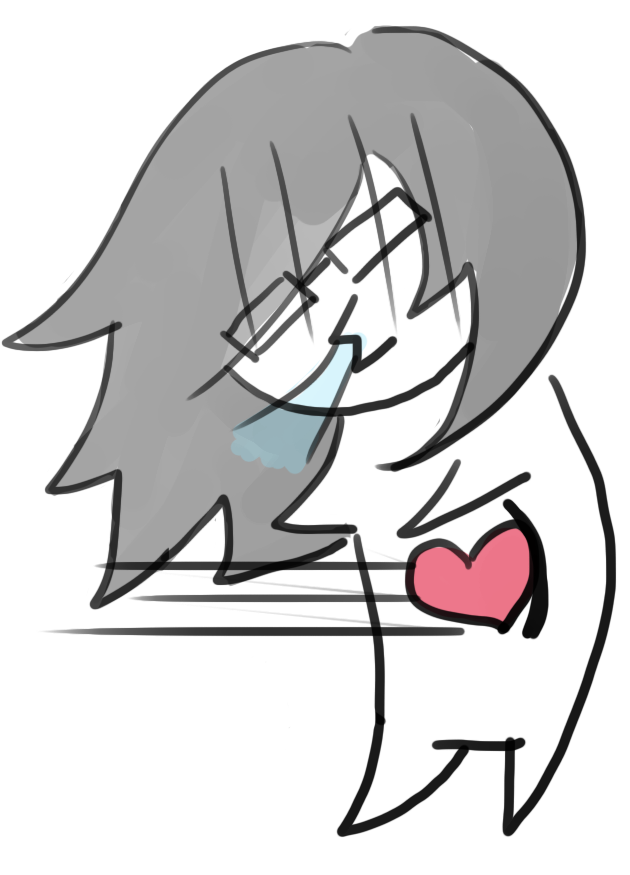
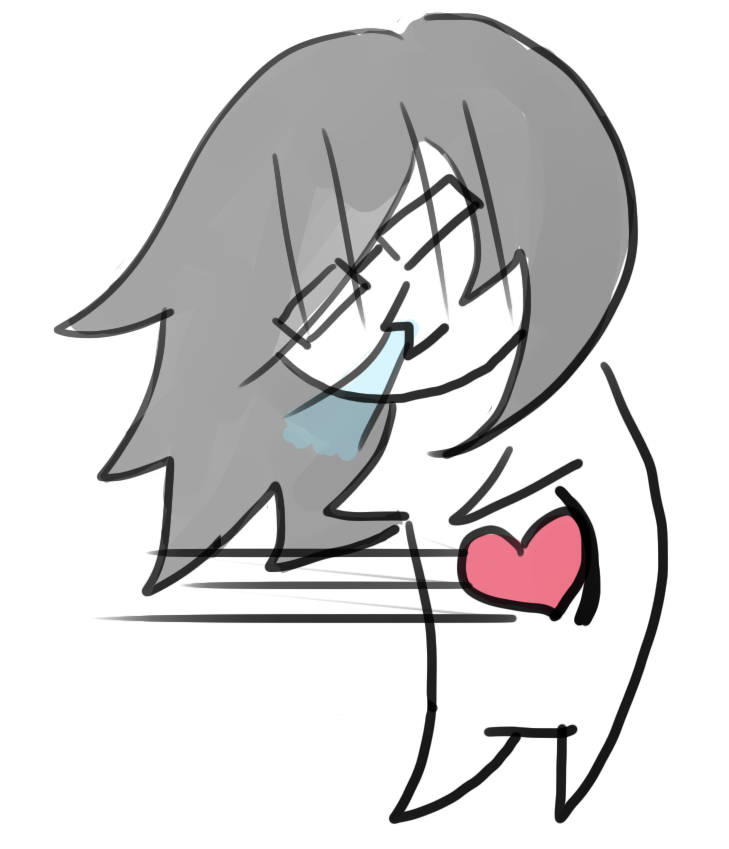
Add Comics

Changed region(s): [[0.0, 0.0, 0.9952, 0.98]]

diff --git a/public/sobre.html b/public/sobre.html
@@ -3,7 +3,7 @@
 <head>
     <meta charset="UTF-8">
     <meta name="viewport" content="width=device-width, initial-scale=1.0">
-    <title>MangaBase</title>
+    <title>Shoyo's Comics</title>
     <link rel="stylesheet" href="css/sobre.css">
     <link rel="stylesheet" href="https://use.fontawesome.com/releases/v5.15.1/css/all.css">
     <link rel="stylesheet" href="https://use.fontawesome.com/releases/v5.15.1/css/v4-shims.css">  
@@ -58,7 +58,8 @@
         <div class="card4">
             <!-- <h3>Card4</h3>
             <p>content</p> -->
-            <img id="animate" onclick="clickme()" class="drawing" src="img/tobi2.png" alt="">
+            <!-- <img id="animate" onclick="clickme()" class="drawing" src="img/tobi2.png" alt=""> -->
+            <img id="animate" onclick="clickme()" class="drawing" src="img/eu_heart.png" alt="">
             <img id="pic2" src="img/me.jpg" alt="">
         </div>
 
@@ -125,17 +126,14 @@
         // place image at corner of card2 and make it move right and left of card2
         var elem = document.getElementById("animate");   
         var pos = 50;
-        var id = setInterval(frame, 5);
+        var id = setInterval(frame, 1);
         function frame() {
             if (pos == 350) {
                 clearInterval(id);
-                // alert('You found me!')
-                // make box with text that shows the screen: 'Hey, psiu! Estou aqui embaixo!'
-            } else if (pos == 340) {
-                elem.style.right = (pos-10) + "px"; 
             } else {
                 pos++; 
                 // elem.style.top = pos * 3 + "px"; 
+                animate.src = 'img/effective.png'
                 elem.style.left = (pos-10) + "px"; 
             }
         }
@@ -144,7 +142,7 @@
     function shoyo() {
         //when click on Shoyo, display an img at corner of box that says:
         // reveals face thats hiding with the blanket
-        pic2.src = '/img/me_mous.jpg';
+        pic2.src = 'img/me3.jpg';
         pic2.style = 'margin-right: 70px';
     }
 </script>

diff --git a/public/quadrinhos.html b/public/quadrinhos.html
@@ -46,7 +46,11 @@
 
         <div class="box-comic">
             <h1>Quadrinhos</h1>
-
+            <i id="arrowleft" class="fas fa-chevron-left"></i>
+            <img src="img/comic1.png" alt="">
+            <!-- <img src="img/comics2.png" alt=""> -->
+            <!-- <img src="img/comics3.png" alt=""> -->
+            <i class="fas fa-chevron-right"></i>
         </div>
 
     </section>

diff --git a/public/css/quadrinhos.css b/public/css/quadrinhos.css
@@ -332,3 +332,14 @@ footer{
     display: block;
     color: white;
 }
+
+.box-comic img{
+    height: 800px;
+}
+
+#arrowleft {
+    font-size: 80px;
+    position: absolute;
+    bottom: 0;
+
+}

diff --git a/public/css/sobre.css b/public/css/sobre.css
@@ -260,7 +260,7 @@ section{
 }
 
 .drawing{
-    height: 50px;
+    height: 100px;
     position: absolute;
     top: 50px;
     left: 50px;
